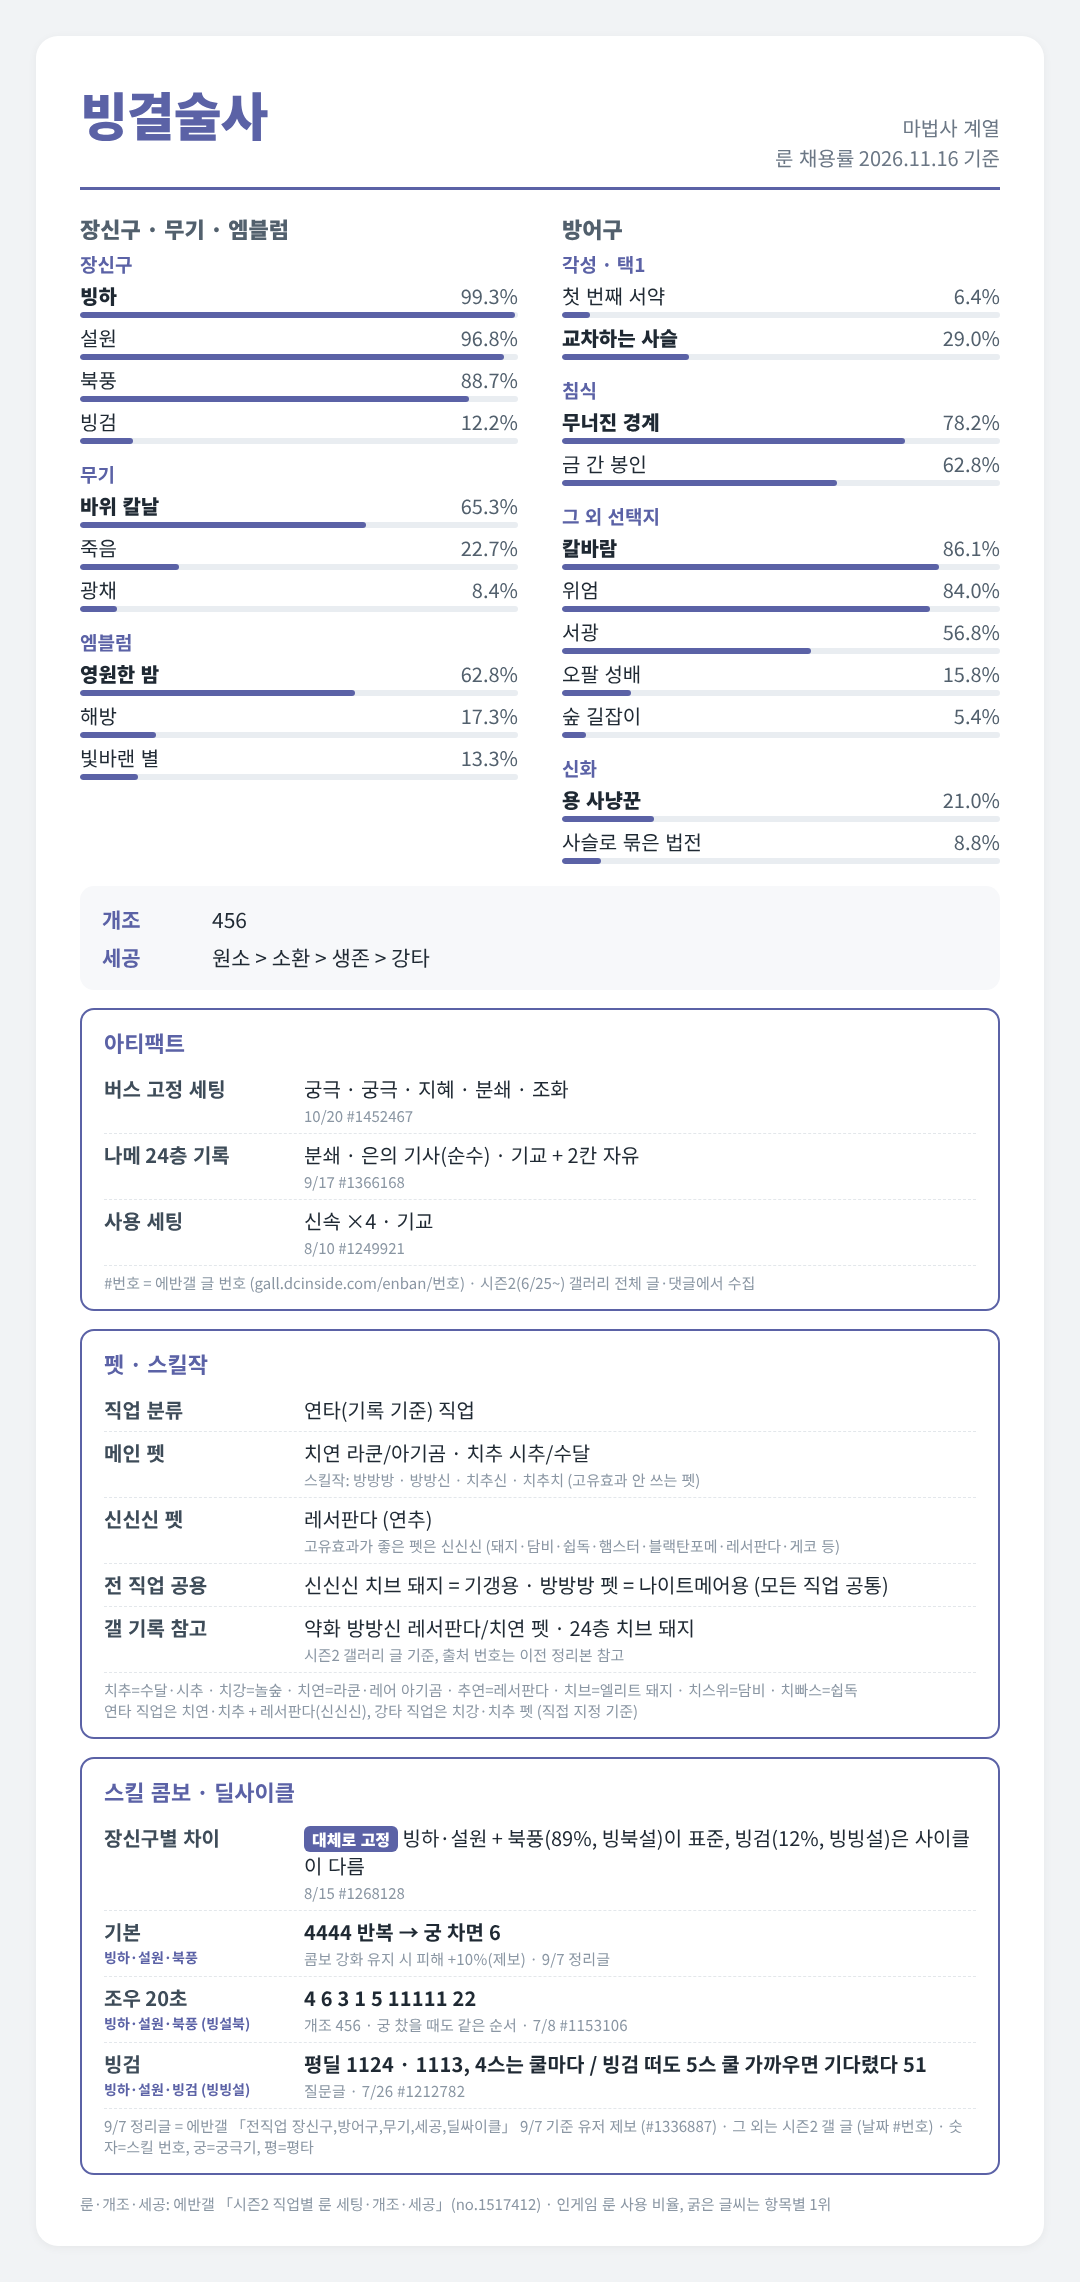
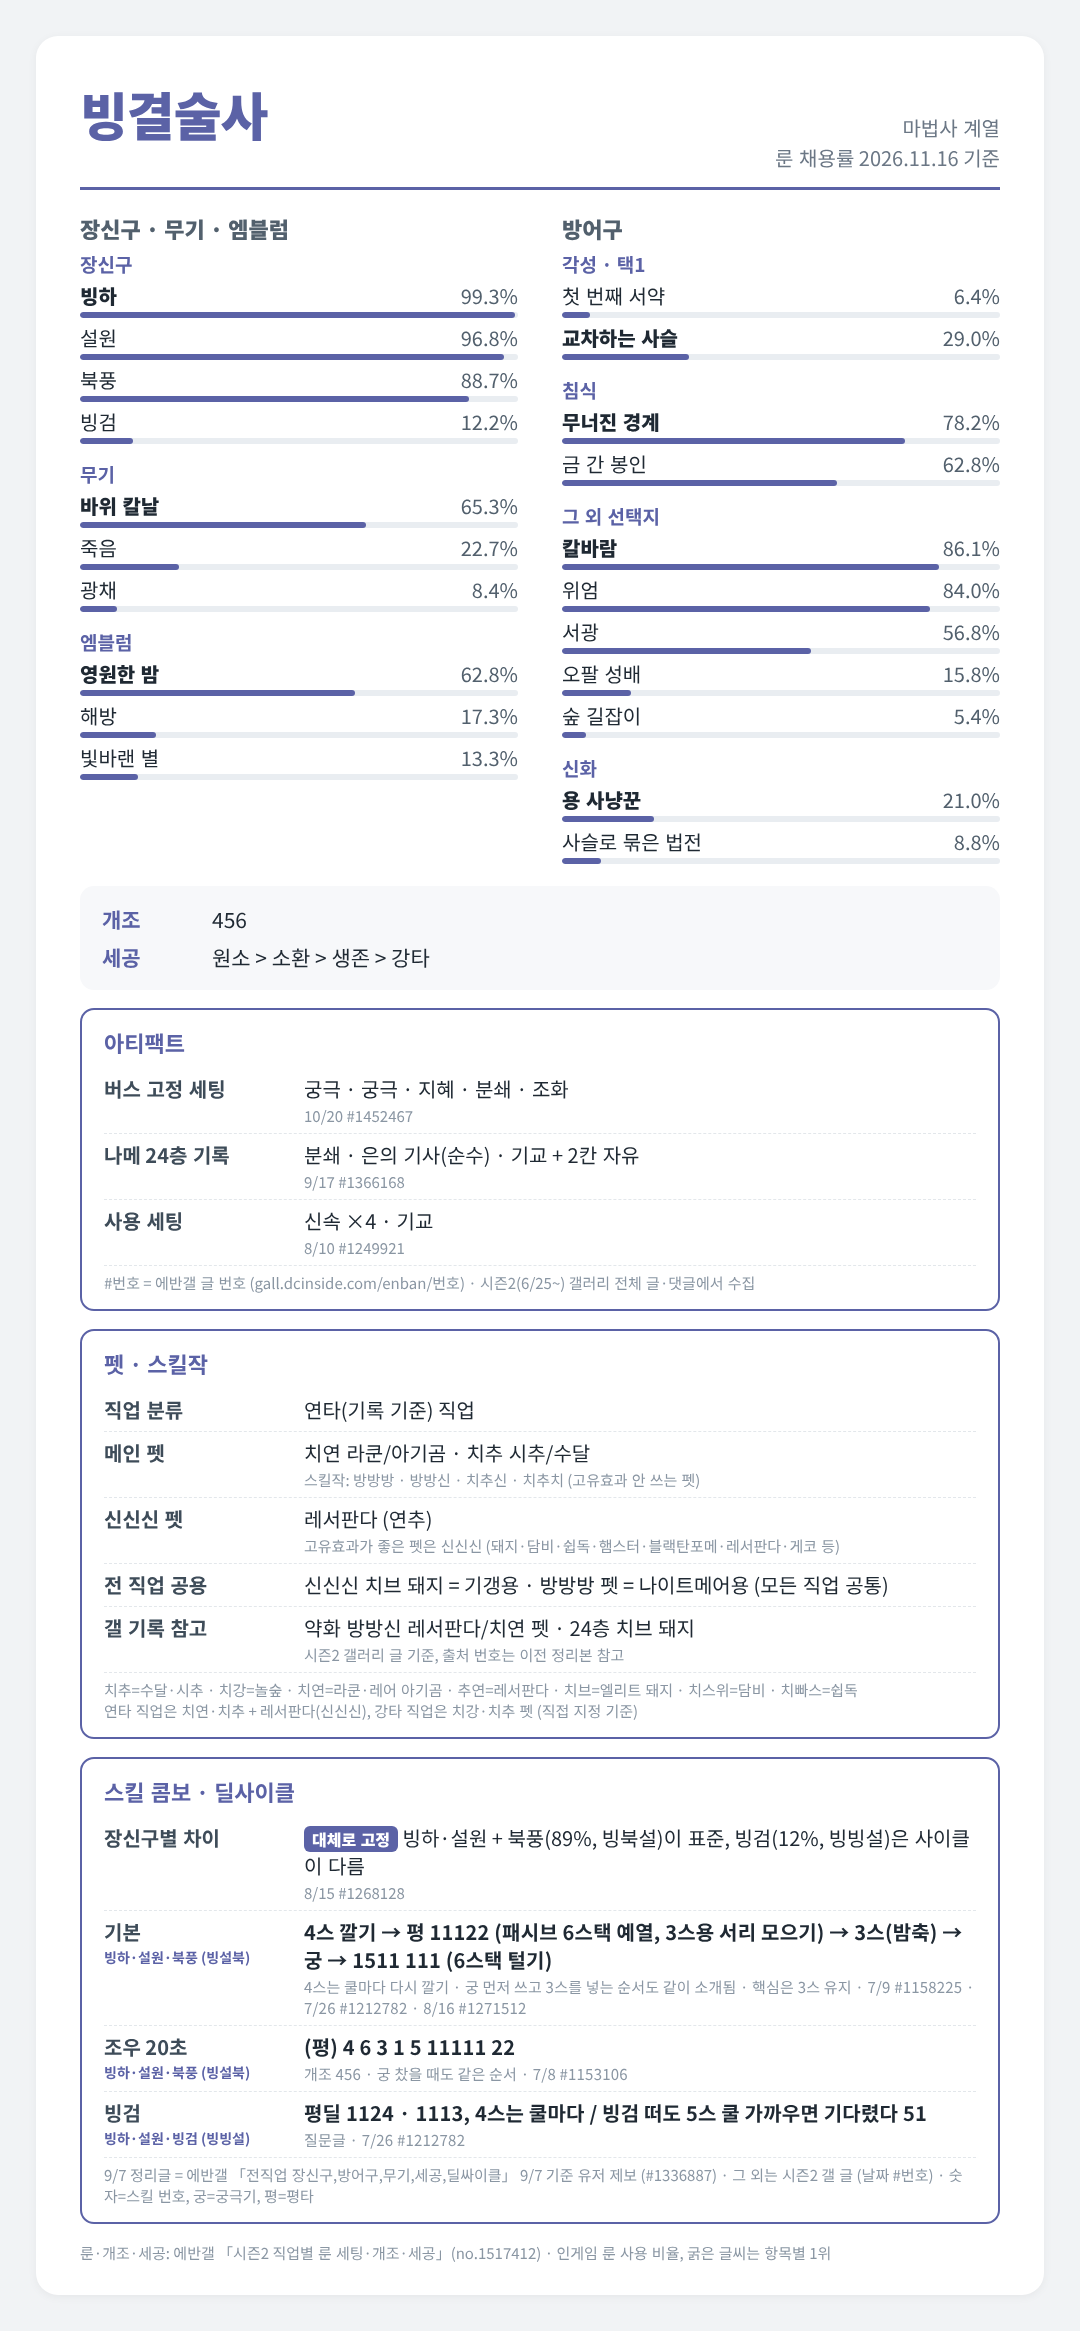
빙결술사 세팅 카드 교체 (v1123c)
Claude-Session: https://claude.ai/code/session_01LM8UucPVM58m71Cyhb2qQr

diff --git a/c/10_ice.html b/c/10_ice.html
@@ -5,9 +5,9 @@
 <meta property="og:type" content="website">
 <meta property="og:title" content="빙결술사 세팅 카드">
 <meta property="og:description" content="마비노기 모바일 빙결술사 장신구·방어구·무기·세공 세팅">
-<meta property="og:image" content="https://sundae-vanilla.github.io/-/10_ice.png?v=1123b">
+<meta property="og:image" content="https://sundae-vanilla.github.io/-/10_ice.png?v=1123c">
 <meta property="og:image:width" content="1080">
-<meta property="og:image:height" content="2282">
+<meta property="og:image:height" content="2331">
 <meta property="og:url" content="https://sundae-vanilla.github.io/-/c/10_ice.html">
 <style>html,body{margin:0;background:#fff}body{min-height:100vh;display:flex;align-items:center;justify-content:center}img{display:block;width:100%;max-width:1080px;height:auto}</style>
-</head><body><img src="../10_ice.png?v=1123b" alt="빙결술사 세팅 카드"></body></html>
+</head><body><img src="../10_ice.png?v=1123c" alt="빙결술사 세팅 카드"></body></html>
